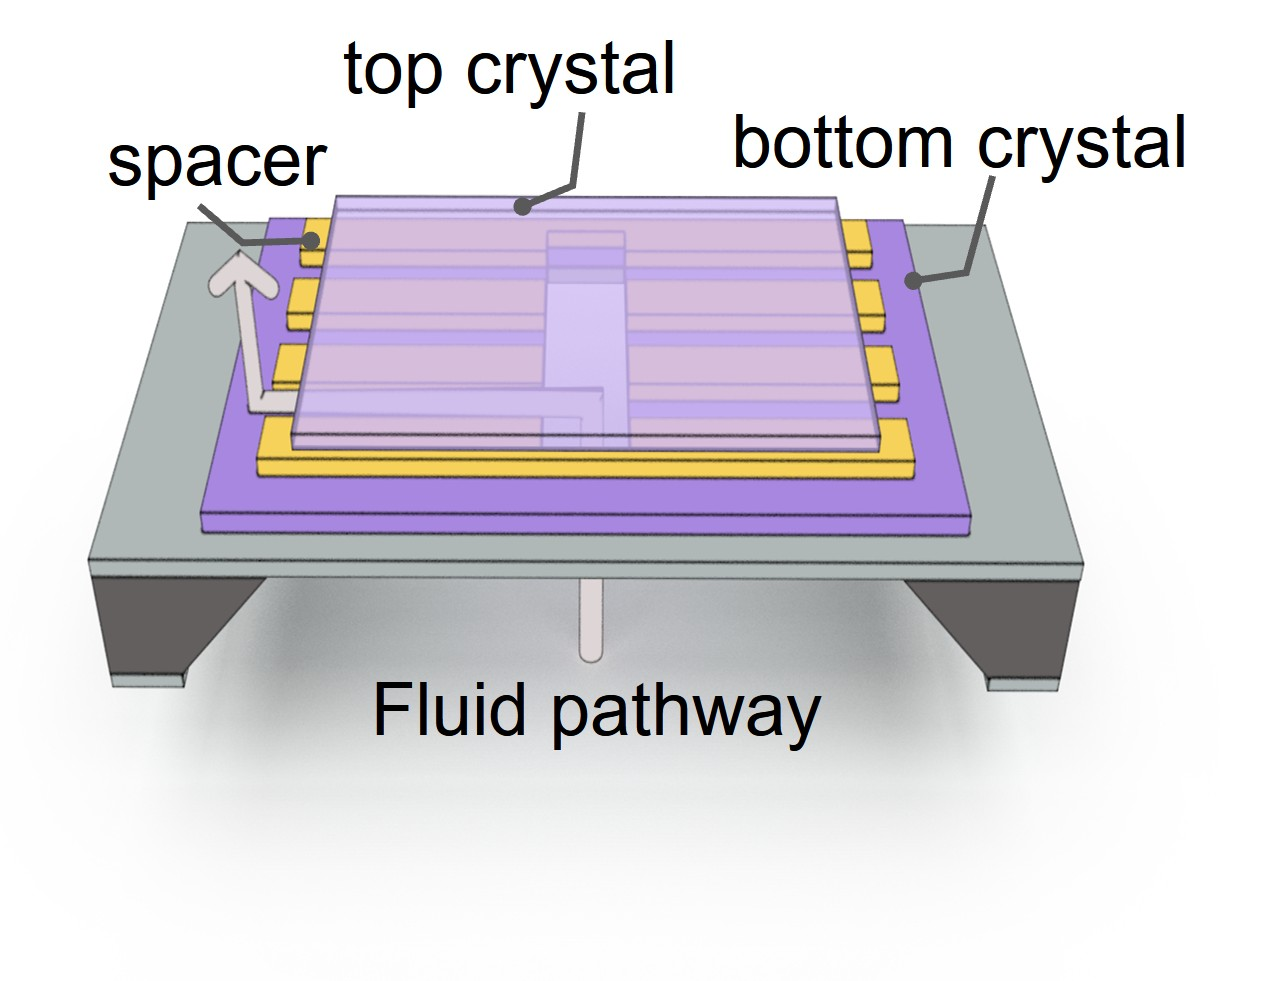
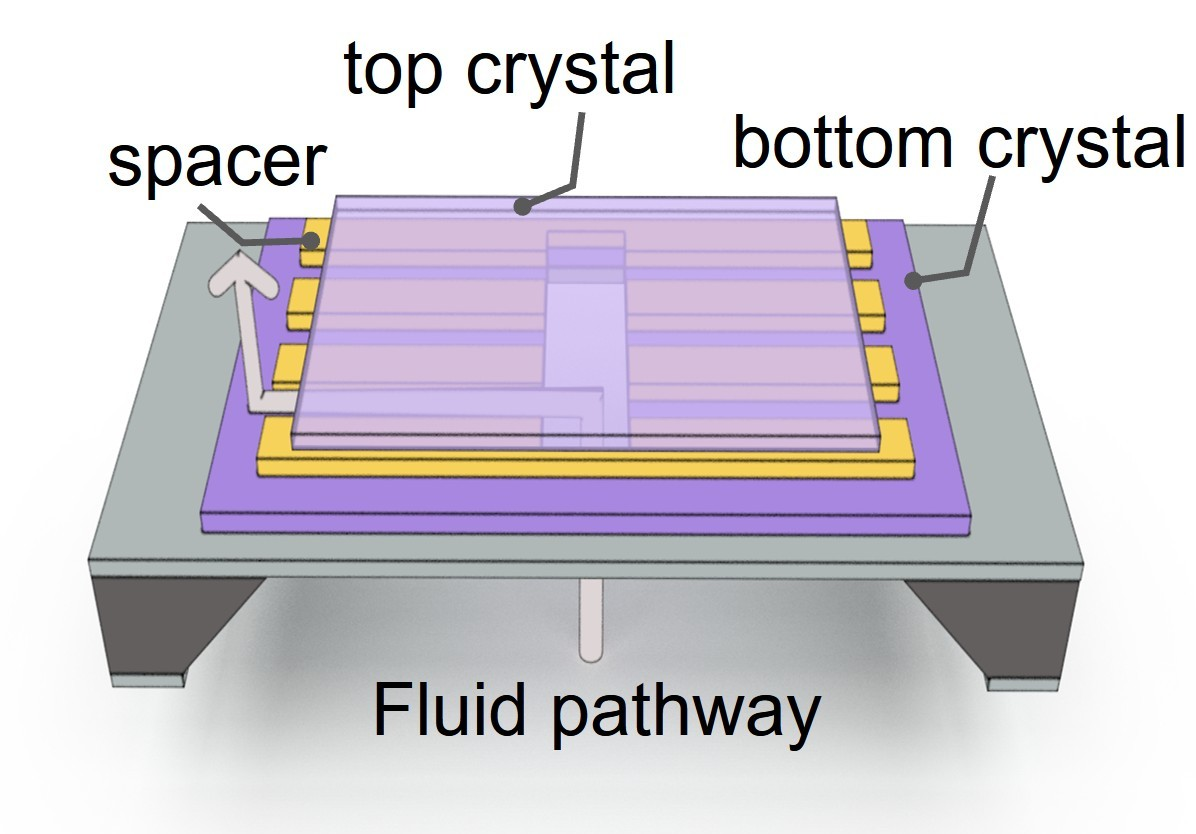
Add files via upload

diff --git a/index.html b/index.html
@@ -242,11 +242,11 @@
 
     .hero-title {
       margin: 0;
-      max-width: 900px;
+      max-width: 1500px;
       font-size: clamp(42px, 6vw, 72px);
       font-weight: 520;
-      line-height: 0.98;
-      letter-spacing: -0.06em;
+      line-height: 1.28;
+      letter-spacing: -0.045em;
     }
 
     .hero-title .accent-word {
@@ -782,7 +782,7 @@
         <div>
           <button class="brand" data-target="0" aria-label="Go to Home">
             <h1>Zhijia Zhang</h1>
-            <p>PhD Researcher in Condensed Matter Physics<br />The University of Manchester</p>
+            <p>PhD student in Condensed Matter Physics<br />The University of Manchester</p>
           </button>
         </div>
 
@@ -804,12 +804,12 @@
         <div class="home-grid">
           <div>
             <p class="home-title-kicker">Nanoscale interfaces · Ion transport · Electrochemistry</p>
-            <h2 class="hero-title">Ion transport at the <span class="accent-word">edge of confinement</span>.</h2>
+            <h2 class="hero-title">Chemistry&Physics at the <span class="accent-word">edge of Nanoconfinement</span></h2>
             <p class="body-text">
-              I am Zhijia Zhang, a PhD researcher in condensed matter physics at The University of Manchester, working on nanofluidics, two-dimensional materials, and interfacial electrochemistry.
+              I am Zhijia Zhang, a PhD student in condensed matter physics at The University of Manchester, working on nanofluidics, two-dimensional materials, and interfacial electrochemistry.
             </p>
             <p class="body-text">
-              My research combines clean van der Waals device fabrication, ionic transport measurements, pressure-sensitive nanofluidics, and electrochemical processes to understand how nanoscale interfaces reshape transport.
+              My research combines van der Waals device fabrication, ionic transport measurements, and electrochemical processes to understand how Nanoconfinement reshape ion transport and chemical reactions.
             </p>
 
             <section class="news-panel" aria-label="Recent news">
@@ -817,70 +817,16 @@
                 <span>Recent News</span>
               </div>
               <ul class="news-list">
-                <li><time>2026</time><span>Continuing PhD research on nanofluidics, two-dimensional materials, and interfacial ion transport at The University of Manchester.</span></li>
-                <li><time>2025</time><span>Best Poster Nomination, MRS Fall Meeting & Exhibit.</span></li>
-                <li><time>2025</time><span>Selected work on clean van der Waals nanochannels and mechanosensitive nanofluidic transport under review.</span></li>
+                <li><time>2026.06</time><span>Our new work is accepted by Science Advances！ Exploring a route to mechanosensitivity in nanofluidic systems without structural deformation. Many thanks to all collaborators for making this happen.</span></li>
+                <li><time>2025.12</time><span>I got the Best Poster Nomination in MRS Fall Meeting & Exhibit. Thanks Rick and Morty!</span></li>
+                <li><time>2025.10</time><span>Our new preprint introduces a fast and scalable method for fabricating ultraclean van der Waals nanochannels within hours using the Mask & Stack approach. Huge thanks to the whole team, and exciting to see this technique opening new possibilities for 2D nanofluidics society.</span></li>
               </ul>
             </section>
           </div>
 
           <figure class="image-panel">
-            <div class="concept-figure" aria-label="Concept illustration of ion transport and fluid flow">
-              <svg viewBox="0 0 800 600" xmlns="http://www.w3.org/2000/svg" role="img">
-                <defs>
-                  <linearGradient id="bgGrad" x1="0" x2="1" y1="0" y2="1">
-                    <stop offset="0%" stop-color="#f5efff"/>
-                    <stop offset="100%" stop-color="#fff9e8"/>
-                  </linearGradient>
-                  <linearGradient id="channelGrad" x1="0" x2="1">
-                    <stop offset="0%" stop-color="#7a36b8"/>
-                    <stop offset="100%" stop-color="#5a2388"/>
-                  </linearGradient>
-                  <linearGradient id="flowGrad" x1="0" x2="1">
-                    <stop offset="0%" stop-color="#f2c94c"/>
-                    <stop offset="100%" stop-color="#6f2da8"/>
-                  </linearGradient>
-                  <filter id="blur"><feGaussianBlur stdDeviation="8" /></filter>
-                </defs>
-                <rect width="800" height="600" fill="url(#bgGrad)"/>
-                <circle cx="645" cy="128" r="112" fill="#f2c94c" opacity="0.14" filter="url(#blur)"/>
-                <circle cx="182" cy="460" r="120" fill="#6f2da8" opacity="0.10" filter="url(#blur)"/>
-                <rect x="135" y="212" width="530" height="32" rx="16" fill="url(#channelGrad)" opacity="0.95"/>
-                <rect x="135" y="356" width="530" height="32" rx="16" fill="url(#channelGrad)" opacity="0.95"/>
-                <text x="147" y="194" font-size="16" fill="#6f2da8" font-family="Inter, Arial, sans-serif">confined nanochannel</text>
-                <path d="M110 300 C 180 250, 270 350, 340 300 S 500 250, 570 300 S 660 350, 720 300" stroke="url(#flowGrad)" stroke-width="8" fill="none" stroke-linecap="round"/>
-                <path d="M110 282 C 185 232, 272 332, 342 282 S 500 232, 570 282 S 654 332, 716 282" stroke="#6f2da8" stroke-opacity="0.20" stroke-width="3" fill="none" stroke-linecap="round"/>
-                <path d="M110 318 C 185 268, 272 368, 342 318 S 500 268, 570 318 S 654 368, 716 318" stroke="#f2c94c" stroke-opacity="0.24" stroke-width="3" fill="none" stroke-linecap="round"/>
-                <polygon points="712,300 682,284 682,316" fill="#6f2da8"/>
-                <g>
-                  <circle cx="184" cy="300" r="18" fill="#f2c94c" opacity="0.95"/>
-                  <text x="177" y="306" font-size="18" font-weight="700" fill="#5a2388" font-family="Inter, Arial, sans-serif">+</text>
-                </g>
-                <g>
-                  <circle cx="278" cy="275" r="15" fill="#6f2da8" opacity="0.92"/>
-                  <text x="271" y="281" font-size="18" font-weight="700" fill="#ffffff" font-family="Inter, Arial, sans-serif">−</text>
-                </g>
-                <g>
-                  <circle cx="392" cy="323" r="17" fill="#f2c94c" opacity="0.95"/>
-                  <text x="385" y="329" font-size="18" font-weight="700" fill="#5a2388" font-family="Inter, Arial, sans-serif">+</text>
-                </g>
-                <g>
-                  <circle cx="510" cy="289" r="16" fill="#6f2da8" opacity="0.92"/>
-                  <text x="503" y="295" font-size="18" font-weight="700" fill="#ffffff" font-family="Inter, Arial, sans-serif">−</text>
-                </g>
-                <g>
-                  <circle cx="605" cy="312" r="18" fill="#f2c94c" opacity="0.95"/>
-                  <text x="598" y="318" font-size="18" font-weight="700" fill="#5a2388" font-family="Inter, Arial, sans-serif">+</text>
-                </g>
-                <g stroke="#6f2da8" stroke-opacity="0.18" stroke-width="2" fill="none">
-                  <path d="M110 120c86 38 125 94 192 94 74 0 111-70 185-94"/>
-                  <path d="M312 110c56 26 79 68 129 68 53 0 81-37 131-68"/>
-                  <path d="M476 470c64-34 92-86 151-86 67 0 97 52 160 86"/>
-                </g>
-                <text x="108" y="106" font-size="15" fill="#8870aa" font-family="Inter, Arial, sans-serif">ion trajectories / fluid streamlines</text>
-              </svg>
-            </div>
-            <figcaption>This placeholder concept graphic uses a subtle ion-flow illustration in Manchester-inspired purple and gold. You can later replace it with your own AFM/device image if you want.</figcaption>
+            <img src="./images/nanochannel.jpg" alt="Research image of nanofluidic device or ion transport" />
+            <figcaption></figcaption>
           </figure>
         </div>
       </div>
@@ -916,7 +862,7 @@
             <article class="research-card">
               <img src="./images/battery.jpg" alt="Energy Harvesting and Storage" />
               <h3>Energy Harvesting and Storage</h3>
-              <p>Osmotic energy conversion and storage, Secondary battery systems</p>
+              <p>Osmotic energy conversion and Secondary battery systems</p>
             </article>
           </div>
         </div>
